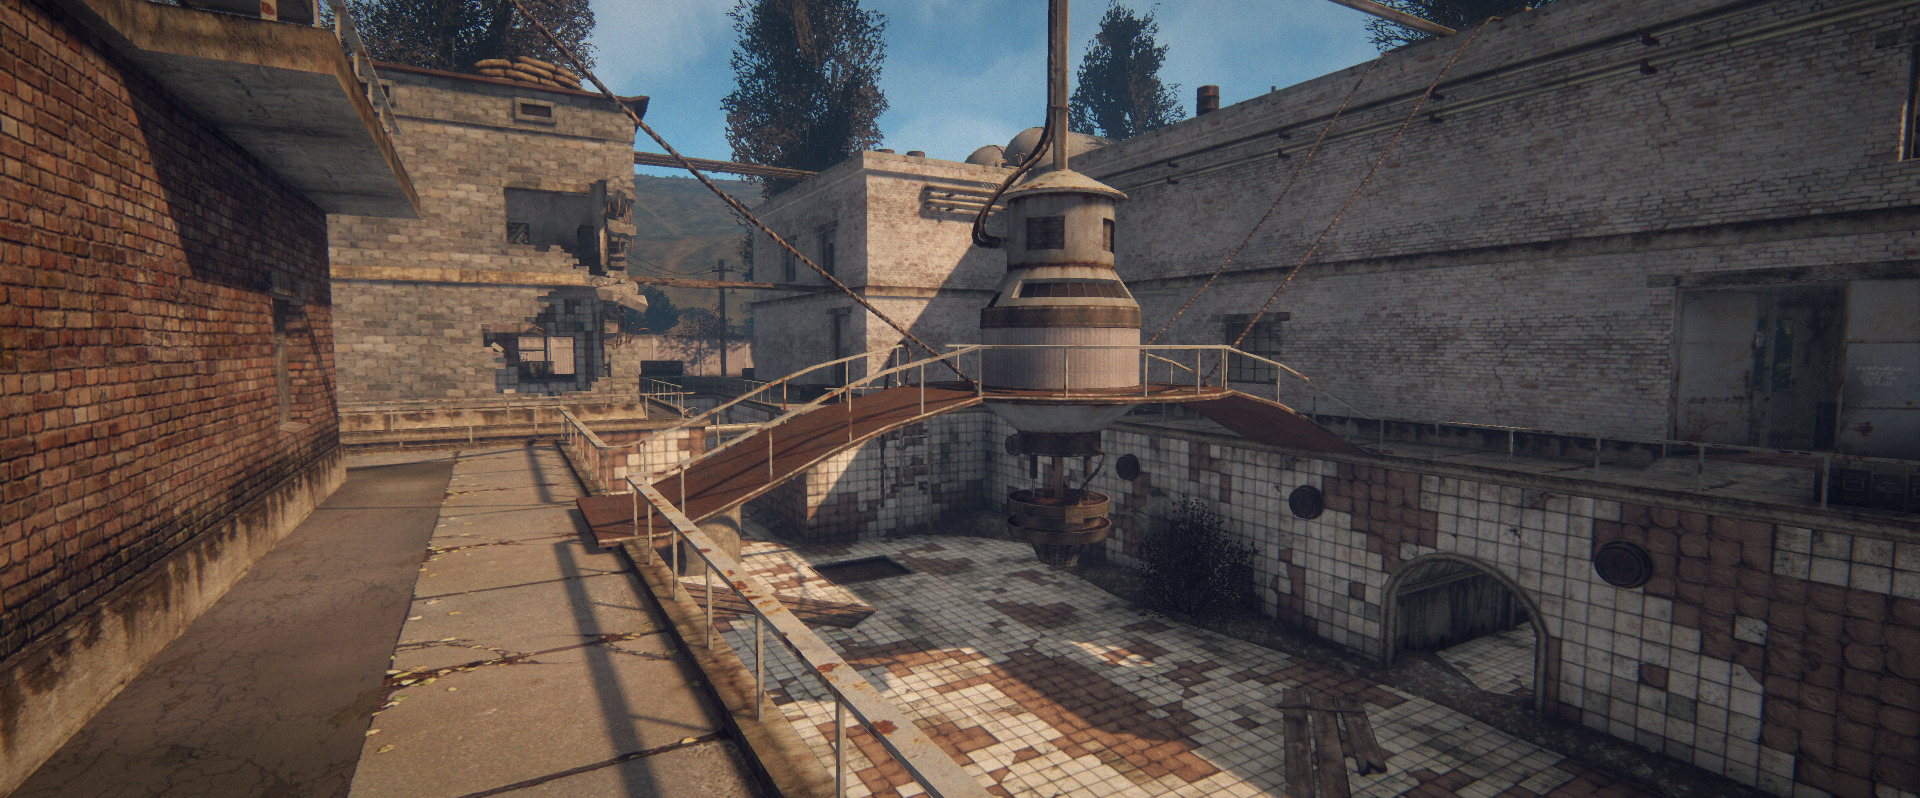
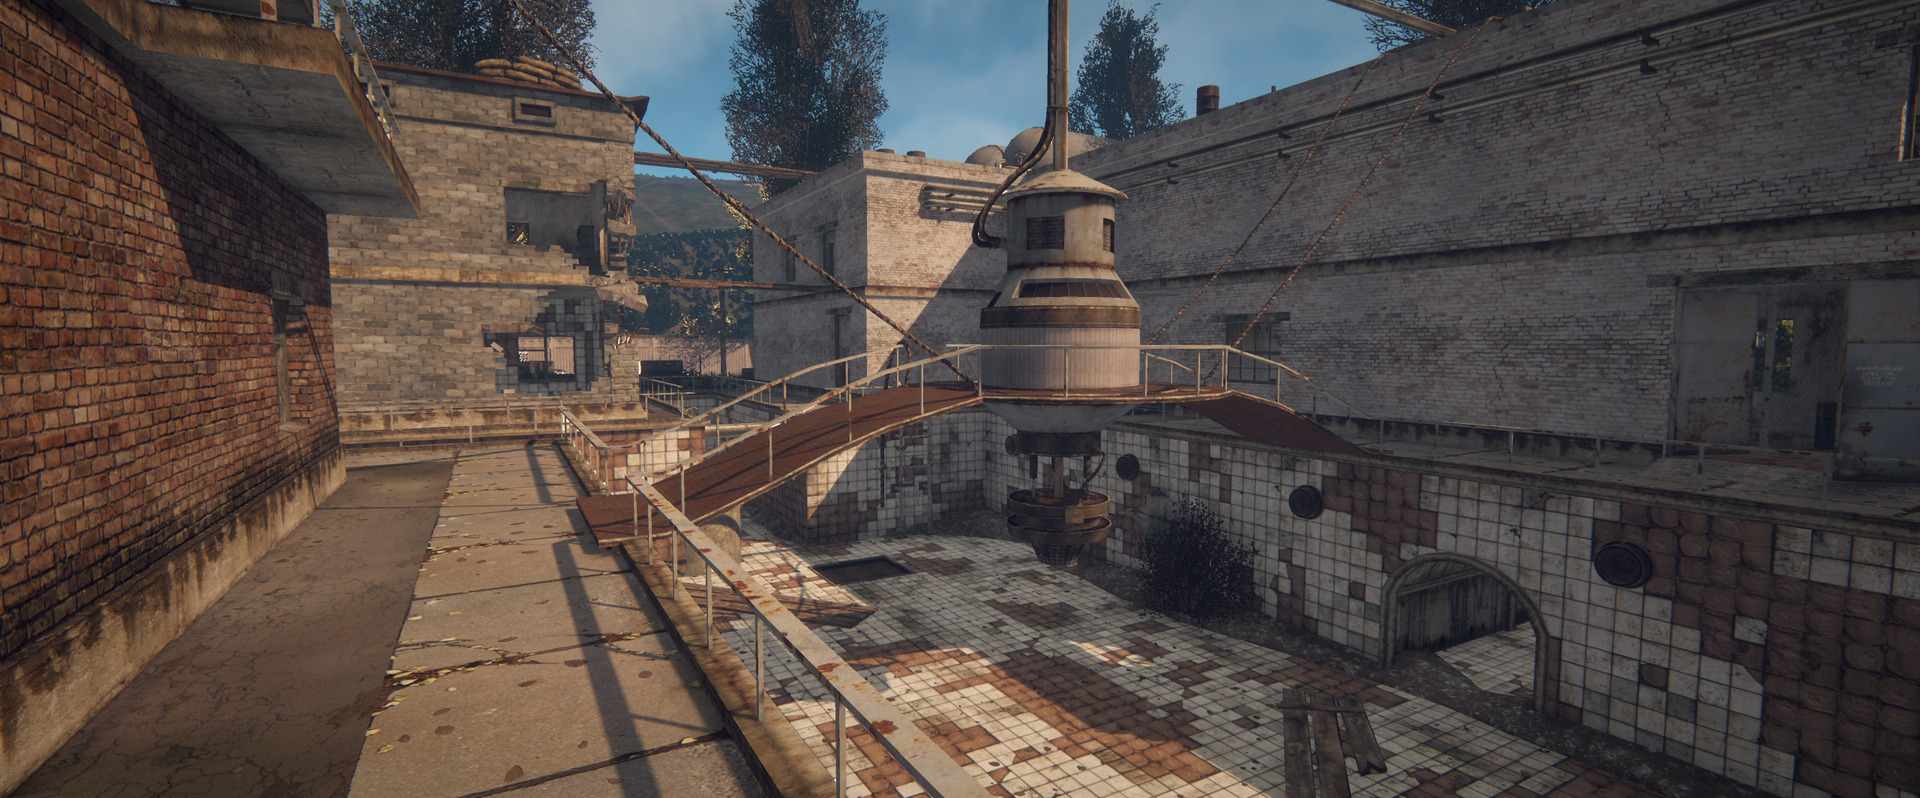
STALKER maps: loading pictures captured again, with grass
The owner, 2026-11-14: "let's rerender preview images, since they are low
quality and don't have grass right now".

Experimental Pool, Military Warehouses and Training Camp get new loading
pictures (also their room tiles and vote cards): frames of the game itself
from a headless game at 2560 x 1440, every graphics setting at its highest,
a fixed camera of 100 degrees across, on a local build of main with PR
#1793 (stock film grain and ambient occlusion, the sun, matte grass) and
PR #1790. The earlier pictures were 1920 x 1080 frames from before the maps
had grass, with the old builds' grain.

Experimental Pool and Military Warehouses keep their cameras (poolside-se,
road-tower). Training Camp's earlier camera is not recorded; its new one,
base-se2, shows the base from the south-east with both towers' tops in the
band. Each frame is scaled to cover 1920 x 798 and its middle band kept, as
ui_images.py cuts it (JPEG, quality 92). The note lists the cameras.

diff --git a/srp-026g/docs/notes/stalker-maps.md b/srp-026g/docs/notes/stalker-maps.md
@@ -258,13 +258,26 @@ The spawns do not come from the level: they are the planner's.
 - `tools/actionscript` adds a bitmap the original movie lacks from the tree's
   `bitmaps/<class>.png` (lossless) or `.jpg`; `srp-026g/scripts/stalker-maps/ui_images.py`
   writes them from the porter's minimap render and a loading picture.
-- Loading pictures and room tiles: Training Camp and Repair Depot use the
-  earlier package's in-game shots. Experimental Pool uses the `poolside-se`
-  panorama and Military Warehouses uses `road-tower`, from the captured
-  `analysis-bath/ingame/previews/<project>/day/` frames (2026-11-12 update).
-  `ui_images.py` cuts their middle band to 1920 x 798; their existing classes
-  serve both loading screens and room tiles. The two underground maps still
-  use top-down placeholders.
+- Loading pictures and room tiles: Experimental Pool, Military Warehouses and
+  Training Camp are frames of the game itself, captured on 2026-11-14 (the
+  owner: "rerender preview images, since they are low quality and don't have
+  grass"): a headless game at 2560 x 1440, every graphics setting at its
+  highest, a fixed camera of 100 degrees across, the maps as PR #1793 leaves
+  them (the grass, stock film grain and ambient occlusion). The earlier
+  pictures were 1920 x 1080 frames from before the maps had grass, with the
+  old builds' grain. Camera (x, eye height y, z; yaw 0 looks +z, 90 looks +x;
+  pitch up):
+
+  | map | pose | position | yaw | pitch |
+  | --- | --- | --- | ---: | ---: |
+  | Experimental Pool | `poolside-se` | (4, 6.5, 4) | -60 | -4 |
+  | Military Warehouses | `road-tower` | (-8, -5.5, -8) | 3 | -2 |
+  | Training Camp | `base-se2` | (62, 19, -50) | -47 | -7 |
+
+  The frame is scaled to cover 1920 x 798 and its middle band kept, as
+  `ui_images.py` cuts it; the existing classes serve both loading screens and
+  room tiles. Repair Depot still uses the earlier package's in-game shot; the
+  two underground maps still use top-down placeholders.
 - `release/content.tsv`: the pack row `stalker-maps@4`. @3 has the grass
   with flat-lying normals (black tufts under a high sun); @2 also has the
   planner's spots on Experimental Pool; @1 has no grass.
